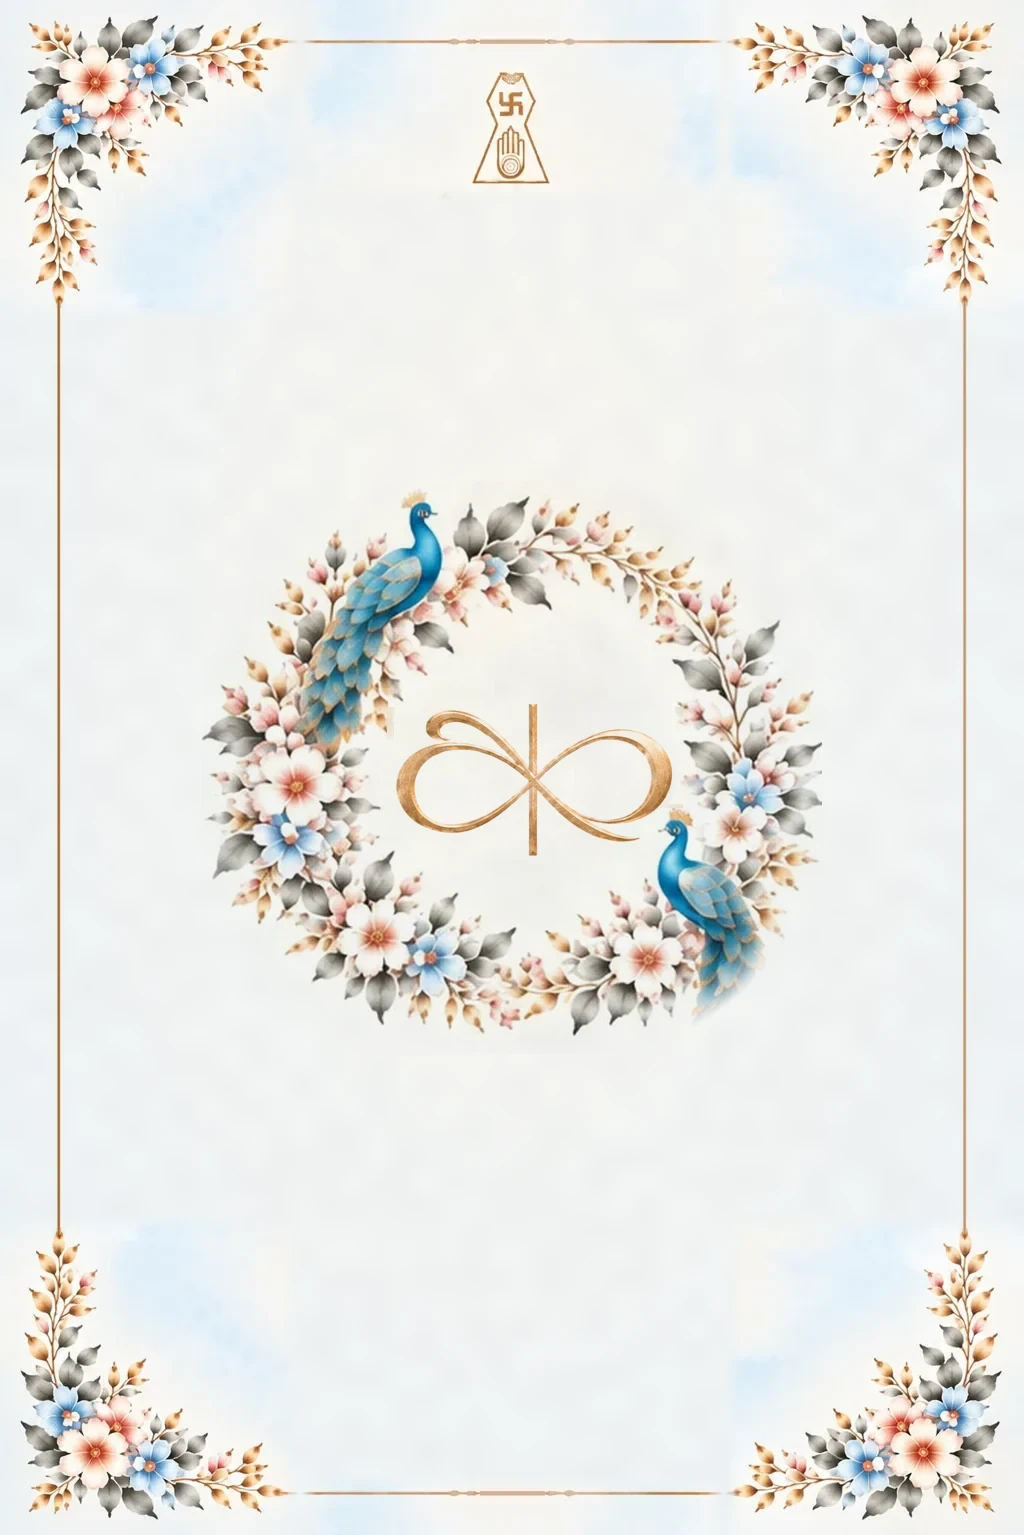
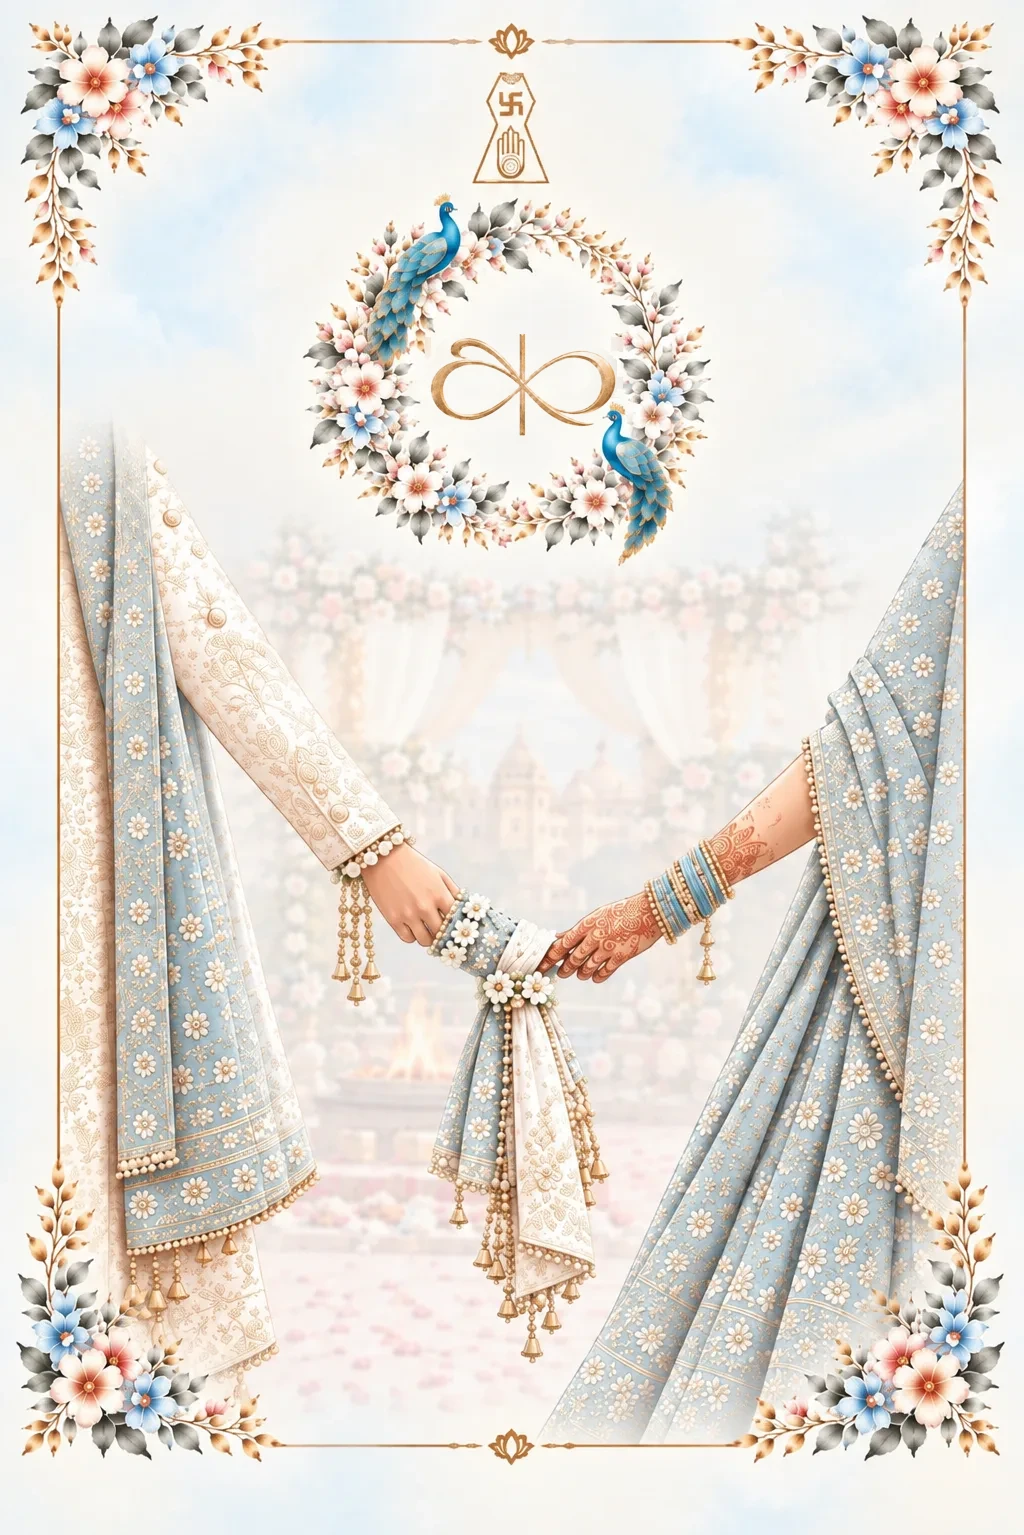
Opening page shows the hand-holding art; last page is baby Shaurya's invite (English)
- Opening page (gate.webp, both pages): now the hand-holding picture with
  the new peacock-wreath logo, previously used on the last page
- Last page (English): baby Shaurya's picture fading softly into the sky,
  with "मेरी मासी की शादी में जलूल-जलूल आना!", the same words in English
  letters ("Meri masi ki shadi mein jalul-jalul aana!") and "– Shaurya"

diff --git a/index.html b/index.html
@@ -504,7 +504,13 @@
 
   /* ---------- Closing ---------- */
   .closing { display: grid; justify-items: center; gap: 22px; text-align: center; }
-  .closing .arch { width: 100%; aspect-ratio: 2 / 3; }   /* last-page image fills the column */
+  /* Last page: baby Shaurya's invitation, his picture fading softly into the sky */
+  .shaurya { margin: 0; display: grid; justify-items: center; gap: 6px; width: 100%; }
+  .shaurya img { display: block; width: min(360px, 100%); height: auto; }
+  .shaurya figcaption { display: grid; justify-items: center; gap: 10px; margin-top: -24px; }
+  .shaurya-hi { font-family: var(--font-deva); font-size: var(--step-2); line-height: 1.45; color: var(--rose); }
+  .shaurya-en { font-family: var(--font-body); font-style: italic; font-weight: 600; font-size: var(--step-1); line-height: 1.35; color: var(--gold-deep); }
+  .shaurya-sign { font-family: var(--font-script); font-size: 2.6rem; line-height: 1.1; color: var(--rose); }
   .closing .script { font-size: var(--step-3); }
 
   /* ---------- Curtain gate (opening animation) ---------- */
@@ -1483,7 +1489,14 @@
 
     <!-- Closing -->
     <section class="closing">
-      <div class="arch reveal"><img src="images/cover.webp" alt="The couple's hands tied together with a wedding knot beneath the P&amp;V monogram" loading="lazy"></div>
+      <figure class="shaurya reveal">
+        <img src="images/closing-shaurya.webp" alt="Baby Shaurya smiling in a green teddy-bear romper" loading="lazy">
+        <figcaption>
+          <p class="shaurya-hi" lang="hi">मेरी मासी की शादी में<br>जलूल-जलूल आना!</p>
+          <p class="shaurya-en">Meri masi ki shadi mein<br>jalul-jalul aana!</p>
+          <p class="shaurya-sign">– Shaurya</p>
+        </figcaption>
+      </figure>
       <p class="script reveal">With love, the Ranka Sethia &amp; Bothra families</p>
       <img class="it-hearts" src="images/ic-hearts.webp" alt="">
     </section>
